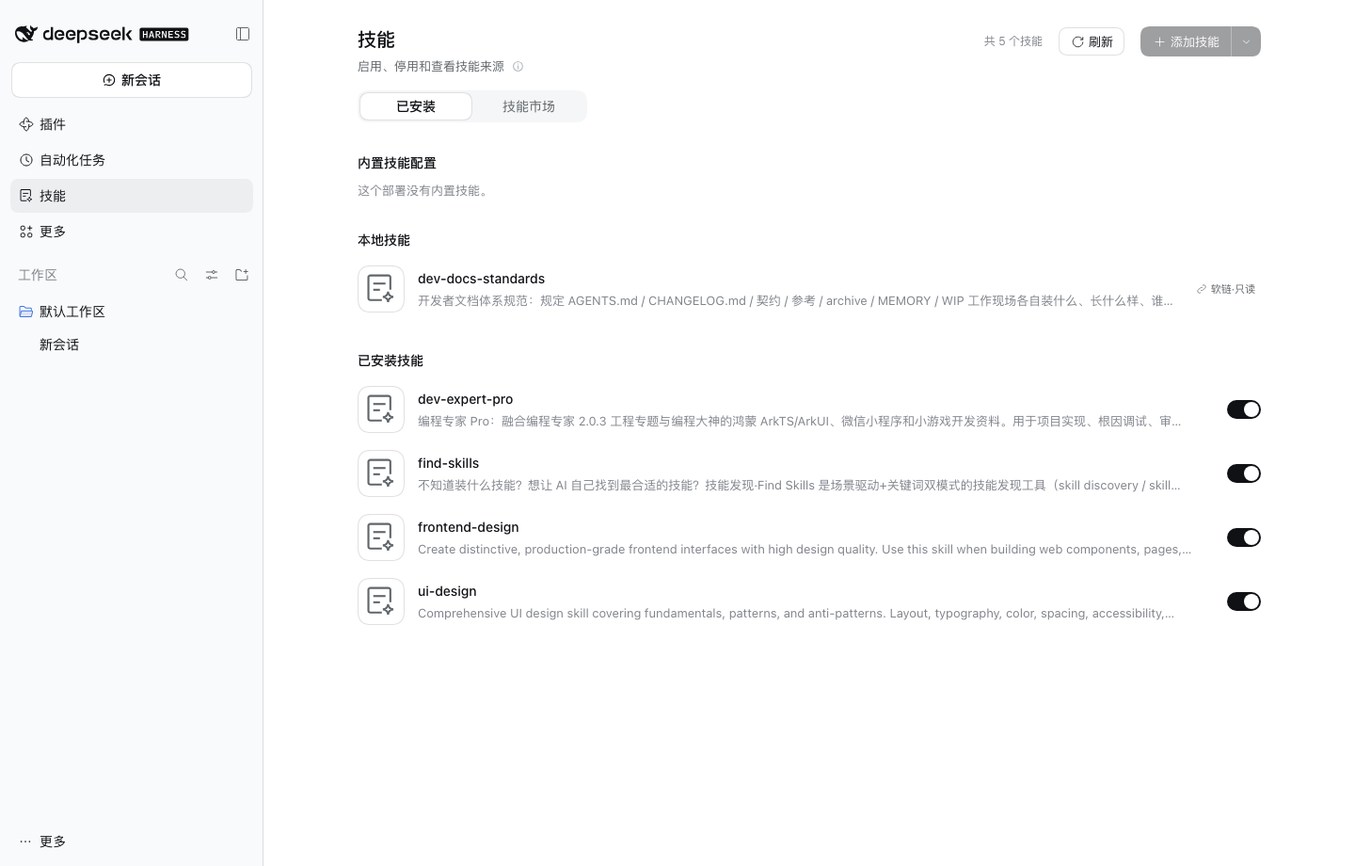
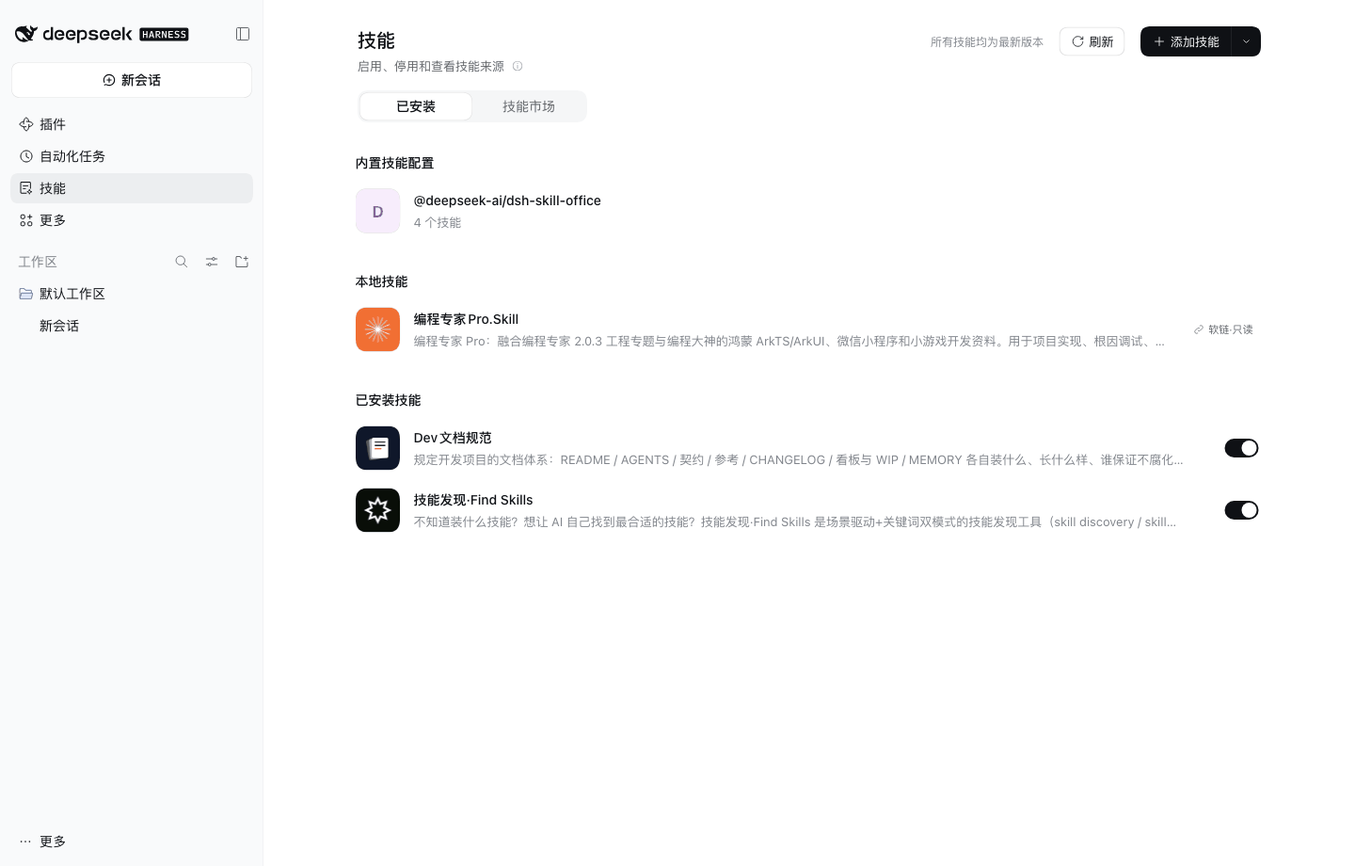
docs: README 与 Release 正文改版，许可改为 MIT
- README 中文重写（119 → 71 行），新建英文版（73 行）：先讲价值与安装，
  细节外链契约；能力与限制改写成使用者视角，内部术语与错误码退出正文
- 两张真机截图重采：已安装页已无「共 N 个技能」计数，新增技能市场页
- Release v1.1.0 / v1.0.0 正文改为五段式，不再复制 CHANGELOG 长列表
- 许可 BSD-3-Clause → MIT：LICENSE、package.json、package-lock.json、
  CHANGELOG 同轮；已发布的 1.1.0 及更早不追溯，许可徽标改读仓库 LICENSE
- check-docs 收 README.en.md 进白名单、R12 覆盖两版；docs-gate 补 2 条自测；
  market-gates 文档份数 14 → 15；decisions 补附录 W（对外文案口径）

diff --git a/README.md b/README.md
@@ -1,119 +1,71 @@
-# dsh-skill-panel（技能面板）
+# dsh-skill-panel — 技能面板
 
-DSH 技能面板：一个侧栏入口 + 一页全局面板，把**内置 / 本地 / 已安装**三类技能分成三组列出来，
-每行一个开关，直接启用或停用。
+**简体中文** | [English](README.en.md)
 
-- **一眼分得清**：分组依据是磁盘与台账的真实证据（软链、`_meta.json`、安装台账、目录名结构），
-  不是猜的；同名技能只出现一次，显示的就是模型实际会拿到的那一条。
-- **开关真的生效**：本地/已安装技能改写它自己的 `SKILL.md` 里的 `disable-model-invocation`，其余字节一个不动
-  （含 CRLF、BOM、注释与行序）；内置技能没有可写文件，状态存在插件自己的存储里，面板内即读即生效。
-- **找得到也装得上**：技能市场连的是 skillhub.cn 的镜像目录（ClawHub 的技能也在里面），来源分「所有来源」
-  （默认，22.4 万）/「SkillHub」（16.1 万）/「ClawHub」（6.3 万）三档，**一档一次请求**；一键装到
-  `~/.dsh/skills/`，装完在**新建的会话**里可用；工具条「＋ 添加技能」旁的 **⌄** 是宿主那张两项菜单：「安装第三方技能」开添加弹窗（既能填本机目录路径，也能填 **GitHub 仓库链接**）、「让 Agent 创建技能」进创造模式让 Agent 帮你写一个。添加弹窗认这些写法（`github:owner/repo` 或 `https://github.com/owner/repo`，可带 `/tree/<分支>/<子目录>`）；详情页头「卸载」连目录带台账记录一起删——两处都按宿主的形状做（一次输入、一次确认，成功不弹提示）。
-- **点得进去**：「已安装」页签的行点标题就进这个技能的本地详情——调用名（kebab，可直接选中复制）、技能文件与真实位置、
-  提供者与只读原因、`SKILL.md` 正文、来源信息（代码来源 / 当前版本，本地技能是目录或 `link:` 路径）、市场装的技能才有版本区块（进页签与打开详情会自动检查、可展开看新版本，有新版本时详情页头出现「更新」，也能手动「重新检查」）、以及「查看仓库」外链；右侧开关仍是行里唯一的独立控件。内置插件点进去是它包含的组件列表（图标 + 名称 + 描述 + 右侧状态与开关，行本身不可点）。
-  「技能市场」页签的卡片同样可点开详情，点卡片的空白处进详情、点按钮只安装；详情头部照宿主「插件详情页」排：面包屑「技能」+ 图标行（右侧动作组：更新（有新版本时才有）→ 卸载（红色描边）→ 开关）+ 名称 / 版本 / 作者 / 描述，来源信息在页尾。
-- **图标跟着身份走**：从市场装的技能在「已安装」列表里显示它在市场里的同一张图；没有上游身份的技能仍是首字母瓦片。
+[![npm](https://img.shields.io/npm/v/@ztqing4agents/dsh-skill-panel)](https://www.npmjs.com/package/@ztqing4agents/dsh-skill-panel) ![downloads](https://img.shields.io/npm/dm/@ztqing4agents/dsh-skill-panel)
+[![release](https://img.shields.io/github/v/release/Ztqing4Agents/dsh-skill-panel?logo=github)](https://github.com/Ztqing4Agents/dsh-skill-panel/releases/latest) ![dsh](https://img.shields.io/badge/dsh-%3E%3D0.2.1-4B6EF5) ![license](https://img.shields.io/github/license/Ztqing4Agents/dsh-skill-panel)
 
-![技能页：内置/本地/已安装三分区，每行右侧一个开关，软链行显示「软链·只读」](docs/assets/installed-page.png)
+**一个侧栏入口，一页全局面板。内置 / 本地 / 已安装三类技能分开列出，每行一个开关，软链技能只读。**
 
-## 安装
+![技能页：内置技能按插件归成一块、本地软链行只读、已安装每行一个开关](docs/assets/installed-page.png)
 
-装完都要**重启 DSH**——bundle 列表只在启动时读取。
+## 三步安装
 
-**桌面 App 用户**：在 App 内「插件」页 → 添加插件 → 粘贴 `@ztqing4agents/dsh-skill-panel`（走 npm；想从源码装就用 `github:Ztqing4Agents/dsh-skill-panel`），装好后侧栏出现「技能」一行，点开就是本页。不走 CLI 是因为 `--profile desktop` 由 App 独占，CLI 会被 `error: profile "desktop" is managed exclusively by the Electron application` 挡住。
+1. **桌面 App**：「插件」页 → 添加插件 → 粘贴 npm 包名 `@ztqing4agents/dsh-skill-panel`。要从源码装就填 `github:Ztqing4Agents/dsh-skill-panel`。
+2. **CLI**：`dsh plugin --profile <name> add @ztqing4agents/dsh-skill-panel`。`--profile` 必填。桌面端的 profile 由 App 独占，只能走第 1 步。
+3. **重启 DSH**：插件清单只在启动时读一次，不重启看不到「技能」。
 
-**CLI / 自建 profile 用户**：`dsh plugin --profile <name> add @ztqing4agents/dsh-skill-panel`（走 npm，推荐）；要从源码装就换成 `github:Ztqing4Agents/dsh-skill-panel`。`--profile` 是必填项，缺了报 `error: required option '--profile <name>' not specified`。需要 `pnpm` 在 PATH 上（缺了报 `spawn pnpm ENOENT`）；安装时会去 npm registry 补装 8 条 peer 依赖，所以不能只通 github.com。重复执行是幂等的（`Already up to date`）。
+- 装之前先确保机器上有 `pnpm`、也连得上 npm 源；没有 `pnpm` 时会提示找不到，装不上。
+- npm 上同名的 `dsh-skill-panel` 是别人的包，别装错。
+- 新旧两个包不能同时装，它们会互相冲突，后装的那个会装不上。
 
-**本地开发用 `link:`**（安装时不需要构建，`client.js` 已随包入库；只有改 `src/client/**` 时才需要 `npm run build`）：profile 的 `package.json` 里写 `"@ztqing4agents/dsh-skill-panel": "link:/path/to/dsh-skill-panel"`、`dsh.profile.bundles` 加上 `@ztqing4agents/dsh-skill-panel`，再在 profile 的 `node_modules/@ztqing4agents/` 下建一条相对软链指向包目录（包名是模块 specifier，目录名就得是 scoped 那个）。
+## 能做什么
 
-**从 `dsh-skill-center` 升到 1.0.0 才需要改名**：先 `mv ~/.dsh/dsh-skill-center ~/.dsh/dsh-skill-panel`（收藏、安装台账、插件开关三个文件都在这个目录里），再把 profile 里的旧包名换成新的；不 `mv` 就读不到旧数据。
-
-**从 1.0.0 升到 1.1.0（包名换成 scoped）**：先 `dsh plugin --profile <name> remove dsh-skill-panel`，再 `dsh plugin --profile <name> add @ztqing4agents/dsh-skill-panel`，最后重启；**状态目录与路由都没变、不要 `mv`**，老数据自动沿用。
-npm 上同名的 `dsh-skill-panel` 是别人的包（不是本插件），别装错；两个包也别同时挂——它们会注册同一批路由。
-
-## 页面
-
-| 区域 | 内容 |
-| --- | --- |
-| 页头 | 大标题、副标题、ⓘ 说明、更新提示（`N 个技能可更新` / 部分失败 / 全部最新；宿主同位只有这一句，不显示计数）、刷新 |
-| 页签 | 「已安装」/「技能市场」（市场页签见下节）；市场页签切走再回来，已加载的页与筛选都还在；「已安装」面切走再回来会回到列表顶部（只有「进详情再返回」才回到原滚动位置） |
-| 分区 | 内置技能配置（**按提供者折成块**：`univer`、`dsh-office`… 点块看它包含的技能）→ 本地技能 → 已安装技能，空分区也保留区标题与该区空文案 |
-| 行 | 48×48 首字母彩色瓦片（配色与 skillhub.cn 一致）+ 名称 + 单行描述 + 右侧开关（行高 64px） |
-| 页脚 | `另有 N 个技能位于项目级或其他目录，首版不展示` |
-
-页头随滚动收拢并停靠，控件逐渐让位（先去掉按钮文字，再让页签换行）——照宿主「插件」页的实现搬来，不是另做一套。
+- 打开就是一页列表，分成三组：内置的技能（按提供它的插件归成一组）、本机的技能、从市场装的技能。同一个技能只出现一次，不会重复。
+- 每行右边一个开关，点一下就能停用或启用，不用自己去改文件。停用之后，模型就不会再用它。软链过来的技能是只读的，不给开关。
+- 点「已安装」里任意一行的标题，进它自己的页面：调用它的名字（可以直接选中复制）、装在本机哪个目录、它自己的说明正文、从哪儿装的、什么版本。从市场装的多一块历史版本，页头还多一个「更新」。
+- 在「技能市场」搜一下，用 12 类分类收窄，按下载量或收藏量排序，滚到底继续加载。点卡片空白处先看简介和包里有什么；点「安装」就装进本机，新开一个会话就能用。
+- 工具条的「＋ 添加技能」可以填本机一个技能目录，也可以贴一个 GitHub 仓库地址；旁边的 `⌄` 里还有「让 Agent 创建技能」。不要了就在详情页头点「卸载」，连安装记录一起删掉。
 
 ## 技能市场
 
-切到「技能市场」页签：搜索框搜当前范围（停顿 250ms 发请求、回车立即），范围在**所有来源**（默认）/ **SkillHub** /
-**ClawHub** 之间切换，可按分类收窄、可改排序（默认 / 最近更新 / 下载量 / 收藏量）；标签带该分类数量（「全部」是范围总数），
-滚到底自动翻页、取尽才出现「没有更多了」。点卡片的**空白处**看详情（概览 + 事实表 + 包内文件清单），「返回市场」回到原位置与已加载页数。
+![技能市场：搜索、来源与排序菜单、12 类分类带数量、等宽卡片网格](docs/assets/market-page.png)
 
-**装到哪**：`$DSH_HOME/skills/<name>`（默认 `~/.dsh/skills/<name>`），与手装技能同一位置，由 Harness 自己的技能系统发现。
-`<name>` 取自包里 `SKILL.md` 声明的 `name`，**不是市场显示的名字**，所以会出现「市场叫 A、目录叫 B」——详情页「安装到」一行就是最终路径。
+技能来自 skillhub.cn 的目录，ClawHub 上的技能也在里面。上面能选范围：「所有来源」默认、量最大，也可以只看「SkillHub」或「ClawHub」。
 
-**什么时候生效**：**新建的会话**里可用；当前会话仍用它已加载的清单，所以不会立刻出现（面板也不会说「立即生效」或「请重启」）。
+12 类分类，每个标签上写着这一类有多少个；四种排序：默认、最近更新、下载量、收藏量。滚到底自动加载下一页，全部取完会显示「没有更多了」。
 
-**同名怎么办**：本机已有同名目录时一律拒绝安装并给出完整路径，**没有覆盖入口**——要换版本先把旧目录移出 `~/.dsh/skills/` 再装；**已经装过的技能要升级请走「已安装」页签详情页的「更新」**。
-
-**为什么有的技能装不了**：宿主技能名是 `^[a-z0-9]+(?:-[a-z0-9]+)*$`（小写 kebab-case），声明名是 `Design`、带空格或中文的包**一律拒绝**——
-不是本插件保守，是宿主硬装进去也不会加载；出路只有等作者改名，或装好后手动改 `SKILL.md` 的 `name` 与目录名。
-
-## 三分区怎么判
-
-首个命中即定，顺序不可换：
-
-| 序 | 条件 | 结论 |
-| --- | --- | --- |
-| R1 | 来源不是 `filesystem` | 内置 |
-| R2 | `filesystem` 但在 bundled 档 | 内置 |
-| R3 | 项目级 / 自定义根 / user-agents 档 | 本版不展示（计入页脚） |
-| R4 | 目录是**软链** | 本地 |
-| R5 | 安装台账命中 | 已安装 |
-| R6 | `_skillhub_meta.json` / `_meta.json` 带 `source` | 已安装 |
-| R7 | `_meta.json` 同时有 `ownerId` + `slug` | 已安装 |
-| R8 | 目录名 `<handle>--<slug>` 且后缀等于声明名 | 已安装（中置信） |
-| R9 | 其余 | 本地 |
-
-同名跨分区只显示一次，按**档位数值小者胜**（100 项目级 < 200 < 250 运行时 < 300 < 400 用户 < 500 < 600 bundled）：
-面板显示的必须是模型实际拿到的那一条。图标**不参与**这套判定：它只决定那一行画图还是画首字母。
+- **装到哪**：装进你本机的技能目录 `~/.dsh/skills/<name>`，和手动放进去的技能放在一起。目录名用的是技能自己声明的名字，不一定等于市场上显示的名字。
+- **什么时候能用**：新开一个会话就能用；当前这个会话还在用它之前加载的清单，所以不会马上出现。
+- **名字撞了怎么办**：本机已经有同名技能就不装，并告诉你它在哪。没有覆盖按钮——想换版本，用详情页的「更新」。
+- **为什么有的装不了**：技能名只能用英文小写字母、数字和短横线；名字里带大写、空格或中文的装不进来。
 
 ## 已知限制
 
-- **软链技能只读**：不渲染开关，改渲染「软链·只读」标记；即使有人直接打接口，服务端也会返回
-  `409 E_SYMLINK_READONLY` 且不写任何字节。
-- **内置技能的开关只在本面板内生效**：注册表不感知这份状态，模型是否仍收到该技能取决于提供它的
-  provider。面板如实说明，不假装改动了别处。
-- **「＋ 添加技能」加的是本机目录**：输入一个技能目录的完整路径（可以 `~` 开头），校验 `SKILL.md` 与名字后整份复制进 `~/.dsh/skills/<name>`；同名已存在、名字不合规、目录里有软链、条目或体积超限都拒绝，且不留半成品。
-- **市场是网络功能，一次只看一个范围**：离线或当前范围连不上时，市场页签进整页错误态（可重试），「已安装」
-  页签完全不受影响。「所有来源」是上游一次不带过滤的请求，所以列表天然混排，但仍是一页一次请求。
-- **搜索与浏览都能翻页**：关键词搜索走同一个目录端点，三个范围都能一直往下翻。
-- **三个范围都有分类**：分类表同一张（12 类），数量按范围各算、**换范围时旧数字留着、新数字到了就地替换**
-  （不换骨架）；取不到数量时该标签只显示名字。
-- **标题优先显示上游名字**：从市场装的技能在「已安装」里显示它在市场里的标题（鼠标悬停可看到 kebab 调用名）。
-  取不到上游标题时回落技能自己声明的显示名（`metadata.displayName`），再没有就显示目录名/kebab 名。
-- **图标只对本面板装的技能生效**：手工放进 `~/.dsh/skills/` 的技能、别的工具装的技能没有我们写下的来源记录，
-  仍是首字母瓦片——我们不猜身份（也不从目录名反推）。
-- **图标是上游给的图片地址**：卡片与详情显示上游给的**绝对 `https` 图片**，宽幅图标按原比例完整显示、不裁切；没有图、
-  取不到或加载失败都回落首字母。已安装行的图标**后补**（先首字母，补齐再换图，同一技能只问一次），每次打开面板重新取
-  一次，所以**断网时全是首字母**（不影响技能本身）。
-- **卡片显示三段数字**：评分（由上游 `score` 折算成 4.0–5.0）· 下载量 · 收藏数，不显示安装数；缺失的值整段不渲染，
-  不会显示成 0。这三段都是**显示上游的数字**，本版没有自己的评分或收藏入口。
-- **装完若台账写入失败**：目录会在、面板却显示「未安装」，此时再装会被同名检查拦下；把目录移出
-  `~/.dsh/skills/` 后重装即可。
-- **会检查更新，也能更新**：市场装的技能在进「已安装」页签、打开详情、点页头刷新、手动「重新检查」时**自动检查**（不弹提醒），页头那句更新提示给出「N 个技能可更新 / 部分技能检查更新失败 / 所有技能均为最新版本」；有新版本时详情页头出现「更新」，走**覆盖安装**，失败保留或回滚到原版本、**启用状态保留**，但**上游文件会整体替换那个技能目录，本地改动会丢**。
-- **仍没有版本回退**：回退只在「新版本出问题」时才有用，还没做——换回旧版得手动把目录移出 `~/.dsh/skills/` 再装。卸载技能已经有入口（详情页头的「卸载」）。
-- **包声明名不合规就不能装**：见上节——本插件不改名、也不用 slug 顶替。
-- 写路由只接受面板展示过的 `(名称, 路径)`：执行前重新扫描，路径不完全一致即 `409 E_STALE_PATH`，
-  软链、越界、无 frontmatter 一律拒绝。
-- 所有路由仅限本机（loopback 套接字 + Host 头 + 浏览器同源标记，带转发头一律否决）。
+- **软链过来的技能是只读的**：面板不给开关，也不会替你改它。
+- **内置技能的开关只在这个面板里算数**：装它的插件不认这份设置，模型会不会用到它，还要看那个插件。
+- **升上去就退不回来**：更新之后想回旧版，只能把技能目录移出去再装一次。
+- **断网只影响「技能市场」**：这一页会报错，可以点重试；「已安装」照常能用。
+- **装好了但记录没写上**：技能已经在列表里，安装记录却没写成功，再装会被「同名」拦下——把目录移出去再装一次就好。
+- **面板只动你在界面上看到的那些技能**：磁盘上它的位置要是变了，写入会被拒绝，不会改错文件。
+
+## 升级与迁移
+
+从 `dsh-skill-center` 到 1.0.0，先跑 `mv ~/.dsh/dsh-skill-center ~/.dsh/dsh-skill-panel`。1.0.0 到 1.1.0 是 `remove` → `add` → 重启，不要 `mv`。细节见 [CHANGELOG.md](CHANGELOG.md) 的 1.1.0 与 1.0.0 两节。
 
 ## 要求
 
-- DSH `>= 0.2.1`，Node `>= 20`；技能市场只需要访问 `api.skillhub.cn`（经本插件的 Host 代理转发，浏览器不直连）。
-- 运行时零依赖；`esbuild` 只在重新构建 `client.js` 时需要。
+- DSH `>= 0.2.1`、Node `>= 20`。
+- 技能市场只访问 `api.skillhub.cn`，由插件代为请求，浏览器不直接连它。
+- 平时不需要额外装依赖；只有自己改源码重新构建时才用得到 `esbuild`。
+
+## 更多
+
+- 三分区九级判定与同名档位：[architecture.md §1.4.2 / §1.4.3](docs/contracts/architecture.md)
+- 市场安装 / 更新 / 回滚与错误码：[routes.md §3.7](docs/contracts/routes.md)
+- 中英文案键与界面名词：[client.md §8.3](docs/contracts/client.md)
+- 全量变更：[CHANGELOG.md](CHANGELOG.md)
 
 ## 许可
 
-BSD-3-Clause，全文见 [LICENSE](LICENSE)。
+本项目采用 [MIT](LICENSE) 开源协议。

diff --git a/README.en.md b/README.en.md
@@ -1,0 +1,73 @@
+# dsh-skill-panel — skill panel
+
+English | [简体中文](README.md)
+
+[![npm](https://img.shields.io/npm/v/@ztqing4agents/dsh-skill-panel)](https://www.npmjs.com/package/@ztqing4agents/dsh-skill-panel) ![downloads](https://img.shields.io/npm/dm/@ztqing4agents/dsh-skill-panel)
+[![release](https://img.shields.io/github/v/release/Ztqing4Agents/dsh-skill-panel?logo=github)](https://github.com/Ztqing4Agents/dsh-skill-panel/releases/latest) ![dsh](https://img.shields.io/badge/dsh-%3E%3D0.2.1-4B6EF5) ![license](https://img.shields.io/github/license/Ztqing4Agents/dsh-skill-panel)
+
+**One sidebar entry, one full-page panel. Built-in, local and market-installed skills listed apart, each row a switch; symlinked skills are read-only.**
+
+![Skills page: built-in skills grouped by plugin, the local symlink row read-only, one switch per installed row](docs/assets/installed-page.png)
+
+## Three steps to install
+
+1. **Desktop app**: open **Plugins** in the app → add plugin → paste the npm name `@ztqing4agents/dsh-skill-panel`. For a source install, paste `github:Ztqing4Agents/dsh-skill-panel` instead.
+2. **CLI**: `dsh plugin --profile <name> add @ztqing4agents/dsh-skill-panel`. `--profile` is required. The desktop profile belongs to the app, so desktop users take step 1.
+3. **Restart DSH**: the plugin list is read once at startup, so no restart means no **Skills** entry.
+
+- Make sure the machine has `pnpm` and can reach the npm registry first; without `pnpm` it says it cannot find it and the install stops.
+- The `dsh-skill-panel` package on npm belongs to someone else — do not install that one.
+- The old and the new package cannot be installed side by side; they clash and the second one fails.
+
+## What it does
+
+- The panel opens on one list in three groups: built-in skills (grouped by the plugin that provides them), skills on this machine, and skills installed from the market. A skill shows up only once, never twice.
+- Every row has a switch on the right. Click it to turn that skill off or on, and you never edit a file yourself. Once it is off, the model stops using it. Skills that are symlinked in are read-only and get no switch.
+- Click the title of any row under **Installed** to open its own page: the name you call it by (you can select and copy it), the folder it lives in on this machine, its own description, where it came from and which version. Market installs also show older versions, and the page header gains **Update**.
+- In **Skill market**, search, narrow by one of the 12 categories, sort by downloads or favorites, and keep scrolling to load more. Click the empty part of a card for a short description and what is inside the package; click **Install** to put it on this machine, and the next session can use it.
+- **＋ Add skill** in the toolbar takes a folder path on this machine or a GitHub repository address; the `⌄` next to it also offers **Let the Agent create a skill**. When you no longer want one, **Uninstall** in the detail page header deletes it together with its install record.
+
+## Skill market
+
+![Skill market: search, source and sort menus, 12 categories with their counts, an equal-width card grid](docs/assets/market-page.png)
+
+Skills come from the skillhub.cn catalog, and ClawHub skills are in there too. Pick a range at the top: **All sources** is the default and the largest, or narrow it to **SkillHub** or **ClawHub**.
+
+There are 12 categories, each label saying how many skills it holds, and four sort orders: default, recently updated, downloads, favorites. Scroll to the bottom and the next page loads by itself; when everything is loaded it says **No more results**.
+
+- **Where it lands**: in your own skills folder, `~/.dsh/skills/<name>`, next to the skills you put there by hand. The folder name is the name the skill declares itself, which is not always the name shown in the market.
+- **When you can use it**: in a new session. The one you are in keeps the list it loaded earlier, so the skill will not show up right away.
+- **If the name is taken**: a skill with that name is not replaced, and the panel tells you where the old one is. There is no overwrite button — to change versions, use **Update** on the detail page.
+- **Why some skills will not install**: a name can only use lowercase English letters, digits and hyphens. Names with capitals, spaces or Chinese characters cannot be installed.
+
+## Known limitations
+
+- **Symlinked skills are read-only**: no switch, and the panel will not change them for you.
+- **A built-in skill's switch only counts inside this panel**: the plugin that provides it does not read that setting, so whether the model still uses the skill depends on that plugin.
+- **No going back to an older version**: after an update, the only way back is to move the skill folder out and install it again.
+- **No network only affects Skill market**: that tab shows an error with a retry button, while **Installed** keeps working.
+- **Installed, but the record was not written**: the skill is already in the list while its install record is missing. Installing again is blocked as a name clash — move the folder out and install once more.
+- **The panel only touches skills you can see in it**: if a skill moved on disk, the write is refused instead of landing on the wrong file.
+
+## Upgrade and migration
+
+From `dsh-skill-center` to 1.0.0, run `mv ~/.dsh/dsh-skill-center ~/.dsh/dsh-skill-panel` first. From 1.0.0 to 1.1.0 it is `remove` → `add` → restart, and **do not `mv`**. Details are in the 1.1.0 and 1.0.0 sections of [CHANGELOG.md](CHANGELOG.md).
+
+## Requirements
+
+- DSH `>= 0.2.1`, Node `>= 20`.
+- The skill market reaches `api.skillhub.cn` only, and goes through the plugin rather than the browser.
+- No runtime dependencies. `esbuild` is only needed if you rebuild the client yourself.
+
+## More
+
+- Nine-level classification and the same-name tiers: [architecture.md §1.4.2 / §1.4.3](docs/contracts/architecture.md)
+- Market install / update / rollback and error codes: [routes.md §3.7](docs/contracts/routes.md)
+- zh/en locale keys and UI vocabulary: [client.md §8.3](docs/contracts/client.md)
+- Full change history: [CHANGELOG.md](CHANGELOG.md)
+
+## License
+
+This project is licensed under the [MIT License](LICENSE).
+
+The internal contract documents linked above are written in Chinese.

diff --git a/docs/contracts/decisions.md b/docs/contracts/decisions.md
@@ -295,6 +295,17 @@
 | V-3 | 条目页 ≠ 进索引 | `awesome-dsh-plugin.com/p/<owner>/<repo>/` 返回 200 只证明 `data/plugins/<owner>__<repo>.yml` 存在；能否被 DSH「发现」页签搜到，取决于该条目是否被探针登记到 npm 包（页面缺 Stars / Downloads / npm 名那一行＝未登记），未登记条目**静默不进 `index.json`、无报错**。验证：对 `index.json` 加 `?cb=$(date +%s)` 绕缓存后在 JSON 里搜包名；四个常见索引里 `cdn.dsh.so/market/index.json` 是 npm 侧聚合、收录最快 |
 
 
+## 附录 W 对外文案口径（README / Release，2026-11-17）
+
+> 对外门面（README 与 GitHub Release 正文）的写法定死在本文，避免每轮改版重新讨论一次。正文事实仍以 `README.md`、`CHANGELOG.md` 为准。
+
+| # | 事项 | 硬闸 |
+| --- | --- | --- |
+| W-1 | README 骨架 | 固定顺序：标题 → 语言切换 → 徽标 → 一句话定位 → 头图 → 三步安装 → 能力 5 条 → 技能市场 → 已知限制 → 升级指针 → 要求 → 契约外链 → 许可；体量 ≤120 行（`check:docs` 的 R12），分区判定表与参数级阈值只留契约指针，不复述 `CHANGELOG` |
+| W-2 | 双语同构 | `README.md` 与 `README.en.md` 章节一一对应、同名条目数相等；改一侧必须同轮改另一侧。命令、包名、错误码、路径字面量不翻译 |
+| W-3 | 徽标出处 | 只放有可验证来源的徽标（npm 版本 / npm 月下载 / GitHub release / `engines.dsh` 静态值 / 许可），不放 CI 徽标、自造数字与「100% 安全」类断言；**许可徽标取 `github/license/<owner>/<repo>`（读仓库 `LICENSE` 文件），不用 `npm/l`**——后者读的是已发布包的不可变元数据，仓库换许可后它会长期显示旧值 |
+| W-4 | Release 正文 | 五段式：定位句 → 新装 → 升级/迁移 → 亮点（≤5 条，每条一句）→ 已知问题 → 全量变更见 `CHANGELOG`；不复制 `CHANGELOG` 长列表，不写「改了哪些文件」；升级步骤只写用户要做的动作 |
+
 ## 验收
 
 每条登记都必须能指出来源（PRD 原文 / 宿主读数 / 队长决策 / 测试用例），没有一条是「因为我觉得」。登记与实现不符时，先改实现或先改登记，不允许两边并存。

diff --git a/CHANGELOG.md b/CHANGELOG.md
@@ -7,6 +7,10 @@ and this project adheres to [Semantic Versioning](https://semver.org/spec/v2.0.0
 
 ## [Unreleased]
 
+### Changed
+
+- 许可从 BSD-3-Clause 改为 **MIT**：`LICENSE` 全文、`package.json` 的 `license` 字段、README 两版的许可行与徽标同轮改掉。**已发布的 1.1.0 及更早版本仍按 BSD-3-Clause 授权**（许可不可追溯），新许可自下一个版本起生效。
+
 ## [1.1.0] - 2026-11-15
 
 ### Changed
